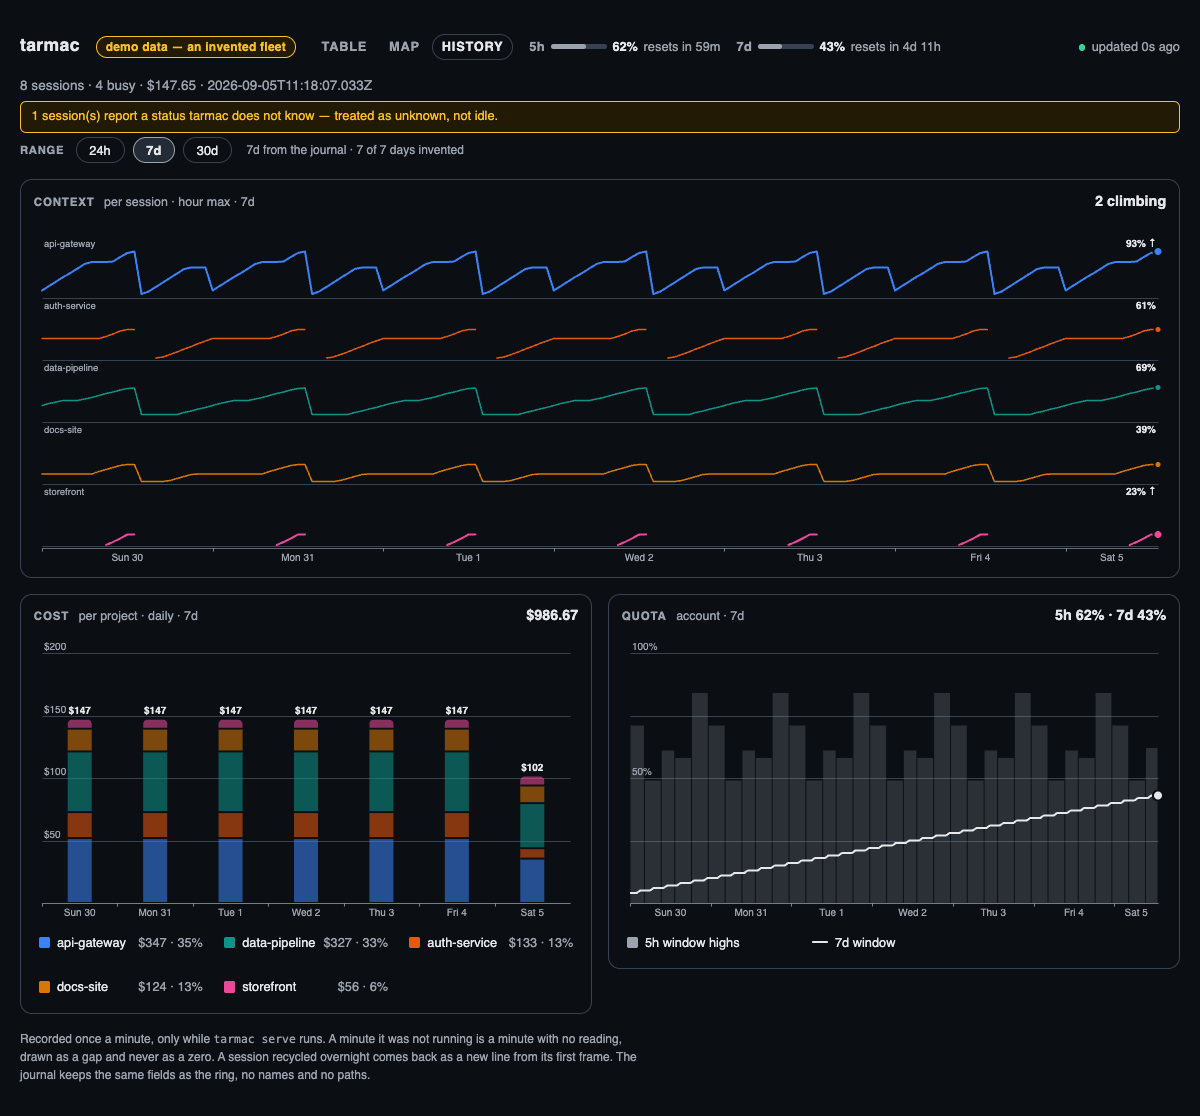
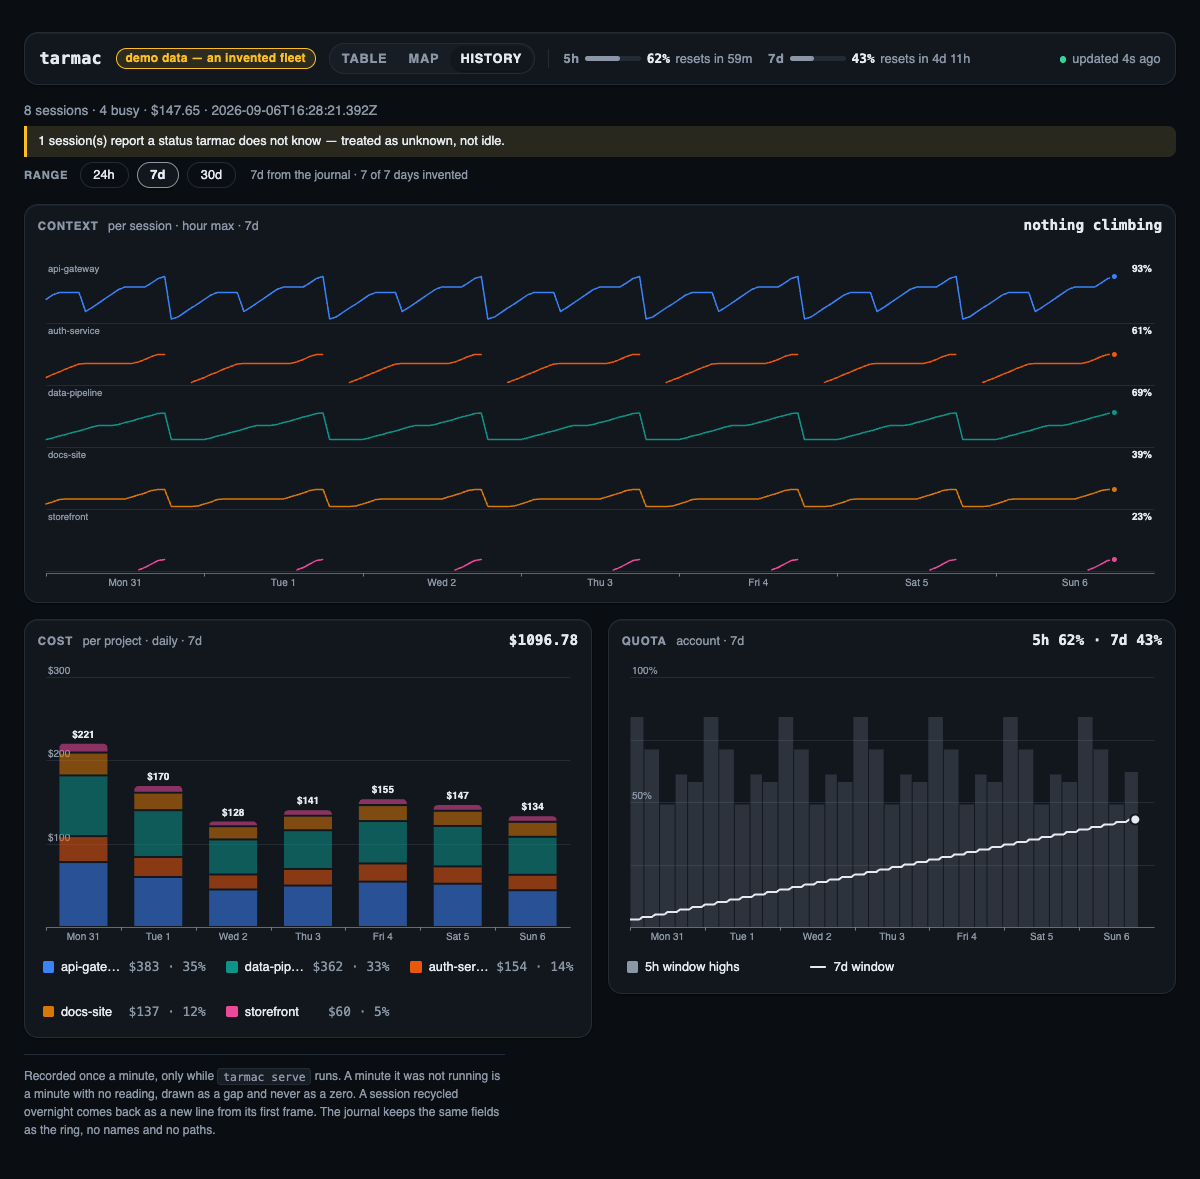
README: the six pictures, shot again on the two planes (#172)
* README: the six pictures, shot again on the two planes (#171)

* README: the alt text says what the new pictures show

* README: shoot the stills with reduced motion, so the halos are in them

diff --git a/README.md b/README.md
@@ -13,7 +13,7 @@ documented surfaces only, never an internal format.
 <picture>
   <source media="(prefers-color-scheme: dark)" srcset="docs/media/replay-dark.gif">
   <img src="docs/media/replay-light.gif" width="1100"
-       alt="The tarmac map, live and then replayed. It opens on the live fleet, whose nodes are grouped into a frame per working directory, each labelled with its project. As the scrubber is dragged the frames give way to the flat record: sessions drawn as dials, each arc a context window, background agents as strips of text, with the account's five-hour and seven-day gauges above them. Sessions appear and disappear, the arcs fill and reset, the five-hour window fills and rolls over, and a banner names the minute being replayed until Back to live is pressed and the frames come back.">
+       alt="The tarmac map, live and then replayed. It opens on the live fleet: nodes grouped into a frame per working directory, each frame labelled with its project, sessions drawn as dials whose arc is the context window, background agents docked under the cards as strips of text, and the account's five-hour and seven-day gauges in the header. As the scrubber under the fleet is dragged the frames give way to the flat record, every node in a cell of one size, sessions still dials and agents still strips, each with its project and what it has cost. Sessions appear as the day walks past and the grid gains a cell for each, the arcs fill, the five-hour gauge fills and rolls over to zero, and a banner names the minute being replayed until Back to live is pressed and the frames come back.">
 </picture>
 
 [Quickstart](#quickstart) · [The map](#the-map) · [The curves](#the-curves) · [Install](#install) ·
@@ -84,7 +84,7 @@ listening rules are [there too](docs/MANUAL.md#what-serve-listens-on).
 <picture>
   <source media="(prefers-color-scheme: dark)" srcset="docs/media/map-dark.png">
   <img src="docs/media/map-light.png" width="1100"
-       alt="The tarmac map, live. Four framed groups, one per working directory and labelled with its project: beacon, holding a session halted on a permission prompt; harbor, holding a session busy with its context arc at 90% and a background agent docked under the cards of that frame as a strip named after its prompt; quay, reporting a status tarmac does not know; and atlas, idle at 36%. A frame says only that its nodes were read in the same directory. Nothing inside one claims that any node dispatched another. The account's five-hour and seven-day gauges sit above them, and one warning above the fleet names the unrecognised status rather than filing it as idle.">
+       alt="The tarmac map, live. Five framed groups, one per working directory and labelled with its project: auth-service, holding a session halted on a permission prompt at 61%; api-gateway, holding a session busy with its context arc at 93% and a background agent docked under the cards of that frame as a strip named after its prompt; data-pipeline, busy at 69% with an agent of its own; docs-site, holding one session reporting a status tarmac does not know and one idle at 39%; and storefront, idle at 23%. A frame says only that its nodes were read in the same directory. Nothing inside one claims that any node dispatched another. The account's five-hour and seven-day gauges sit in the header, one warning above the fleet names the unrecognised status rather than filing it as idle, and the scrubber for the replay sits under the fleet.">
 </picture>
 
 The tabs in the header swap the table for the same fleet drawn as nodes: one per session, the
@@ -129,7 +129,7 @@ the journal, if you keep one. `<canvas>` and the page's own script, no library.
 <picture>
   <source media="(prefers-color-scheme: dark)" srcset="docs/media/curves-dark.png">
   <img src="docs/media/curves-light.png" width="1100"
-       alt="The curves page of the demo fleet, on the 7d range out of the invented journal. Context is a row of small multiples, one line per session, each a sawtooth that climbs through the day and breaks where the session was recycled, the two still climbing labelled with an arrow. Cost is one stacked bar per day in a fixed project order, the current day shorter than the six complete ones. Quota is the seven-day line climbing over the five-hour window's highs. A banner above names one unrecognised status, and the header is badged demo data.">
+       alt="The curves page of the demo fleet, on the 7d range out of the invented journal. Context is a row of small multiples, one band per project: four sawtooths that climb through the day and break where the session was recycled, and storefront, a short stroke a day near the baseline. None carries the arrow that marks a climbing line, since the panel counts nothing climbing over this range. Cost is one stacked bar per day in a fixed project order, seven days between $128 and $221. Quota is the seven-day line climbing over the five-hour window's highs. A banner above names one unrecognised status, and the header is badged demo data.">
 </picture>
 
 A context line breaks where its session did, so a recycle at three in the morning reads as a
@@ -237,11 +237,12 @@ and what would have worked. Spellings, edge cases and the two health fields
 ```bash
 npm test                       # typecheck (src + test + scripts), then run the suite
 npm run build                  # flat JavaScript into dist/
-node scripts/demo-fleet.ts     # the invented fleet the captures above are taken of
+node scripts/demo-fleet.ts     # a second invented fleet, served on a port
 ```
 
-Every capture on this page is taken of a fleet that does not exist. A screenshot of a real
-machine carries working directories, prompts and costs, and nothing real enters this repo.
+Every capture on this page is taken of `serve --demo`, a fleet that does not exist. A
+screenshot of a real machine carries working directories, prompts and costs, and nothing real
+enters this repo.
 What CI covers, which Node version develops and which one ships:
 [the manual](docs/MANUAL.md#developing). Capturing the fixtures for a new Claude Code build:
 [the manual](docs/MANUAL.md#capturing-a-new-claude-code-version).
